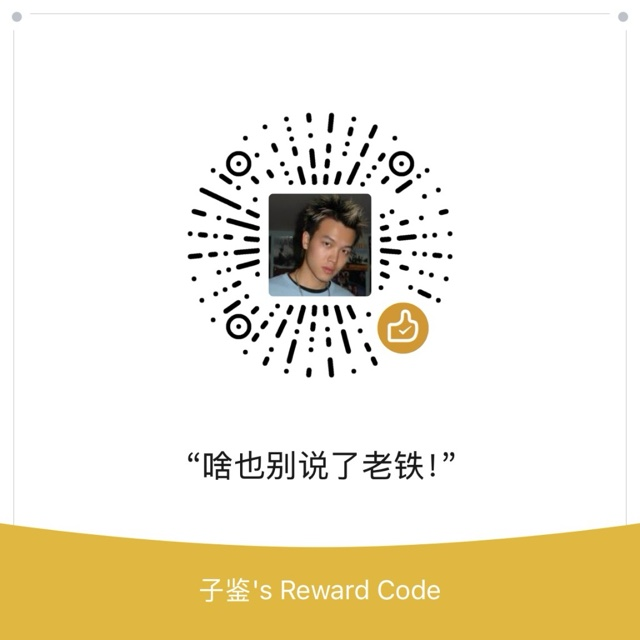
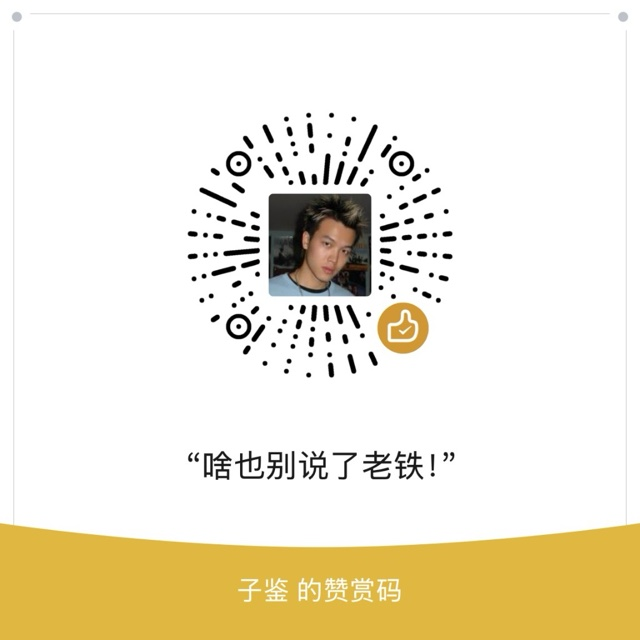
feat: 更新赞赏码为中文版、修复批处理日志赞赏按钮传递、定制外卖杯图标、优化卡片置灰蒙层

diff --git a/src/sidepanel/sidepanel.html b/src/sidepanel/sidepanel.html
@@ -18,7 +18,15 @@
         </div>
       </div>
       <div class="rn-hdr-actions">
-        <button class="rn-icobtn rn-sponsor-btn" id="rn-btn-sponsor-hdr" type="button" title="请作者喝杯咖啡 ☕">☕</button>
+        <button class="rn-icobtn rn-sponsor-btn" id="rn-btn-sponsor-hdr" type="button" title="请作者喝杯瑞幸/奶茶 🥤">
+          <svg class="rn-cup-icon" width="16" height="16" viewBox="0 0 24 24" fill="none" xmlns="http://www.w3.org/2000/svg">
+            <path d="M15.5 2.5L13 7" stroke="#ff5c78" stroke-width="2.2" stroke-linecap="round"/>
+            <rect x="5.5" y="6.5" width="13" height="2.5" rx="1.2" fill="currentColor" fill-opacity="0.2" stroke="currentColor" stroke-width="1.6"/>
+            <path d="M6.8 9L7.9 19.1C8 20.2 8.9 21 10 21H14C15.1 21 16 20.2 16.1 19.1L17.2 9" stroke="currentColor" stroke-width="1.8" stroke-linejoin="round"/>
+            <path d="M7.3 12.5H16.7L16.3 16.5H7.7L7.3 12.5Z" fill="#ff5c78" fill-opacity="0.25" stroke="#ff5c78" stroke-width="1.4"/>
+            <circle cx="12" cy="14.5" r="1.2" fill="#ff5c78"/>
+          </svg>
+        </button>
         <button class="rn-icobtn" id="rn-gear" type="button" title="设置与维护">⚙</button>
       </div>
     </header>
@@ -86,11 +94,11 @@
         </div>
 
         <div class="rn-settings-section rn-sponsor-section">
-          <div class="rn-settings-hd">☕ 支持与赞赏</div>
+          <div class="rn-settings-hd">🥤 支持与赞赏</div>
           <div class="rn-sponsor-panel-box">
-            <div class="rn-sponsor-text">如果 RedNote Manager 帮到了你，欢迎请作者喝杯咖啡，支持持续维护更新！</div>
+            <div class="rn-sponsor-text">如果 RedNote Manager 帮到了你，欢迎请作者喝杯瑞幸或蜜雪冰城，支持持续维护更新！</div>
             <button class="rn-btn rn-mini rn-btn-sponsor-open" id="rn-btn-sponsor-settings" type="button">
-              ☕ 打开微信赞赏码
+              🥤 请作者喝杯瑞幸/蜜雪
             </button>
           </div>
         </div>
@@ -180,7 +188,7 @@
     <div class="rn-modal-overlay" id="rn-sponsor-modal" hidden>
       <div class="rn-modal-card rn-sponsor-modal-card">
         <div class="rn-modal-hdr">
-          <span class="rn-modal-title">☕ 请作者喝杯咖啡</span>
+          <span class="rn-modal-title">🥤 请作者喝杯瑞幸 / 奶茶</span>
           <button class="rn-modal-close" id="rn-sponsor-close" type="button" title="关闭">&times;</button>
         </div>
         <div class="rn-sponsor-card-body">
@@ -188,7 +196,7 @@
             <img class="rn-sponsor-qrcode" src="../../assets/sponsor.jpg" alt="微信赞赏码" />
           </div>
           <div class="rn-sponsor-quote">“啥也别说了老铁！”</div>
-          <div class="rn-sponsor-sub">感谢支持 RedNote Manager · 每一份鼓励都是持续维护的动力 ❤</div>
+          <div class="rn-sponsor-sub">无论是瑞幸、蜜雪冰城还是库迪，每一份鼓励都是持续维护的动力 ❤</div>
         </div>
       </div>
     </div>

diff --git a/src/content/content.js b/src/content/content.js
@@ -97,8 +97,9 @@
     return p(d.getHours()) + ':' + p(d.getMinutes()) + ':' + p(d.getSeconds());
   }
 
-  function log(msg, kind) {
-    state.logs.push({ t: stamp(), msg: String(msg), kind: kind || 'info' });
+  function log(msg, kind, extra) {
+    const entry = Object.assign({ t: stamp(), msg: String(msg), kind: kind || 'info' }, extra || {});
+    state.logs.push(entry);
     if (state.logs.length > LOG_CAP) state.logs.shift();
     broadcastState();
     if (kind === 'err') console.warn('[RedNote Manager]', msg);
@@ -2338,8 +2339,8 @@
           mode: s.mode,
         });
 
-        if (state.stats.ok >= 3) {
-          log('🎉 批量清理完成！若帮到了你，欢迎请作者喝杯咖啡 ☕', 'ok', {
+        if (state.stats.ok > 0) {
+          log('🎉 批量清理完成！若帮到了你，请作者喝杯瑞幸/奶茶吧 🥤', 'ok', {
             isSponsor: true,
           });
         }

diff --git a/src/sidepanel/sidepanel.js b/src/sidepanel/sidepanel.js
@@ -509,7 +509,7 @@ function renderLogs(logs) {
         undoHtml = '<button class="rn-line-undo-btn" data-undo-type="' + esc(l.undoType || 'single') + '" data-note-id="' + esc(l.noteId || '') + '" data-batch-id="' + esc(l.batchId || '') + '" data-mode="' + esc(l.mode || '') + '" type="button" title="' + esc(btnTitle) + '">' + esc(btnText) + '</button>';
       }
     } else if (l.isSponsor) {
-      undoHtml = '<button class="rn-line-sponsor-btn" type="button" title="支持作者 · 请喝咖啡 ☕">☕ 请喝咖啡</button>';
+      undoHtml = '<button class="rn-line-sponsor-btn" type="button" title="支持作者 · 请喝一杯 🥤">🥤 请喝一杯</button>';
     }
     return '<div class="rn-line' + cls + '">' +
       '<span class="rn-t">' + esc(l.t) + '</span> ' +

diff --git a/src/content/style.js b/src/content/style.js
@@ -59,13 +59,13 @@ globalThis.RNStyle = `
     border-radius: 8px !important;
   }
   .rn-card-dim {
-    opacity: 0.3 !important;
-    filter: saturate(0.55) !important;
+    opacity: 0.38 !important;
+    filter: saturate(0.65) !important;
     transition: opacity 0.15s ease !important;
   }
   .rn-card-done {
-    opacity: 0.28 !important;
-    filter: grayscale(0.85) !important;
+    opacity: 0.42 !important;
+    filter: grayscale(0.75) !important;
     pointer-events: none !important;
     transition: opacity 0.25s ease, filter 0.25s ease !important;
   }

diff --git a/tests/sidepanel_and_feedback.test.js b/tests/sidepanel_and_feedback.test.js
@@ -1273,7 +1273,7 @@ test('微信赞赏支持体系：资源存在且多触点组件结构完整', ()
 
   // 3. 验证 README.md 包含赞赏章节
   const readmeContent = fs.readFileSync(path.resolve(__dirname, '../README.md'), 'utf8');
-  assert.ok(readmeContent.includes('## ☕ 支持与赞赏'), 'README 必须包含赞赏版块');
+  assert.ok(readmeContent.includes('支持与赞赏'), 'README 必须包含赞赏版块');
   assert.ok(readmeContent.includes('assets/sponsor.jpg'), 'README 需引用赞赏码图片');
 });
 

diff --git a/src/sidepanel/sidepanel.css b/src/sidepanel/sidepanel.css
@@ -1015,12 +1015,24 @@ body {
 .rn-sponsor-btn {
   font-size: 13px;
   cursor: pointer;
+  display: flex;
+  align-items: center;
+  justify-content: center;
+}
+
+.rn-cup-icon {
+  display: block;
+  transition: transform 0.15s ease;
 }
 
 .rn-sponsor-btn:hover {
   background: rgba(255, 92, 120, 0.18);
   border-color: rgba(255, 92, 120, 0.45);
   color: #ff5c78;
+}
+
+.rn-sponsor-btn:hover .rn-cup-icon {
+  transform: rotate(-6deg) scale(1.12);
 }
 
 /* 设置面板里的赞赏区域 */

diff --git a/README.md b/README.md
@@ -151,11 +151,11 @@ assets/                图标
 npm test                                  # 17 个纯逻辑单测，无需安装外部依赖
 ```
 
-## ☕ 支持与赞赏
+## 🥤 支持与赞赏
 
 RedNote Manager 是一款开源、免费、无广告的实用效率工具。
 
-如果它帮你在整理小红书收藏与点赞时节省了宝贵时间，欢迎请作者喝杯咖啡，支持后续的持续维护与体验优化！
+如果它帮你在整理小红书收藏与点赞时节省了宝贵时间，欢迎请作者喝杯瑞幸、蜜雪冰城或库迪，支持后续的持续维护与体验优化！
 
 <div align="center">
   <img src="assets/sponsor.jpg" width="220" alt="微信赞赏码" />
